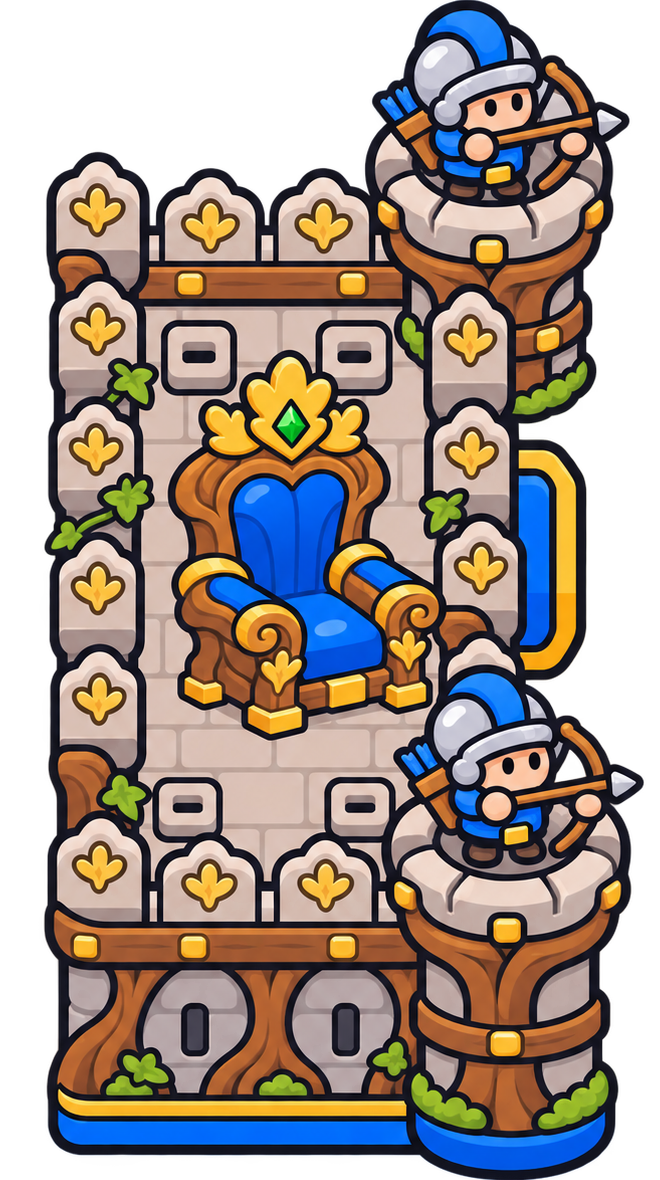
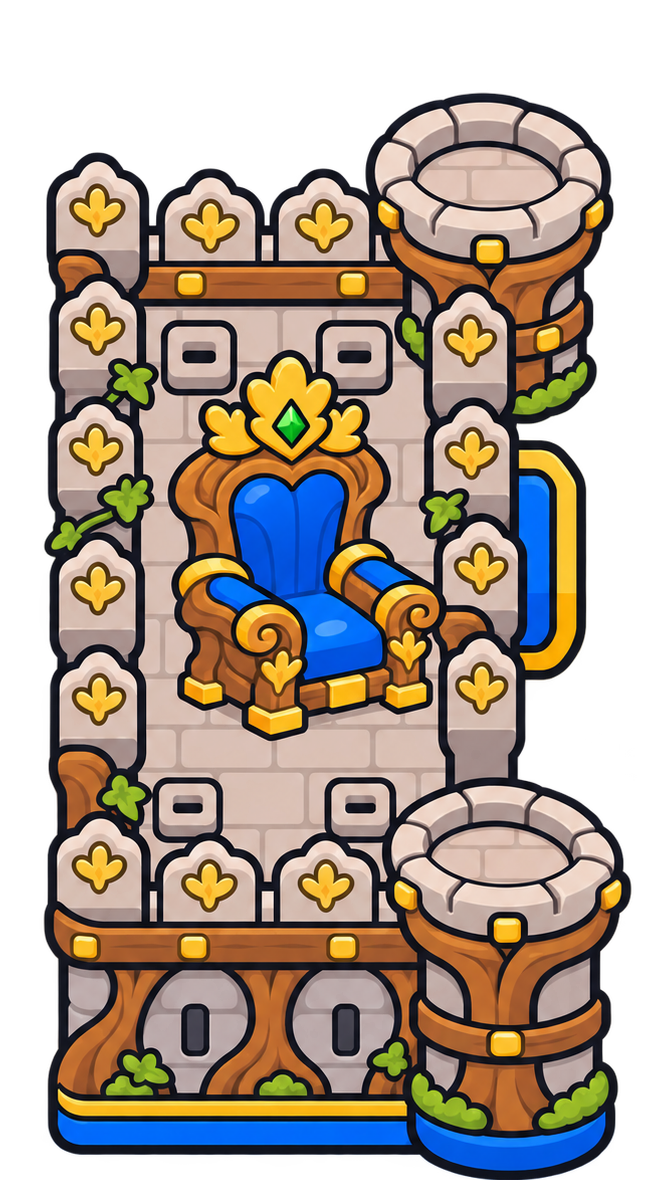
Castillos sin arqueros pintados y arqueros de torre animados; escaramuza igualada en el menú
Claude-Session: https://claude.ai/code/session_01JNP7QCwsBCjLSMGndzwo2W

diff --git a/docs/index.html b/docs/index.html
@@ -4770,13 +4770,12 @@ function castleVariants(sc) {
 }
 /* ---- arqueros de las torres: van encima del dibujo del castillo (en el mismo sitio que los pintados) y se animan al disparar:
    el arco apunta al objetivo y retrocede con el tiro. Medidas en píxeles del dibujo del castillo ---- */
-const ARQ = { on: false, body: [463, 105.5, 201], bow: [562, 124.5, 115], dy: 660, dx: 5, t: 0.45 };   // on: cuando los castillos vengan sin los arqueros pintados
+const ARQ = { body: [[465, 105], [480, 765]], bh: 200, hand: [92, 39], bowH: 150, grip: [0.68, 0.5], t: 0.45 };   // en píxeles del dibujo del castillo
 let torreArq = {};
 function torreArqueros(sc) {
-  if (!ARQ.on) return;
   for (const team of ['blue', 'purple']) torreArq[team] = [0, 1].map(() => ({
-    bow: sc.add.image(0, 0, 'torre_arco').setOrigin(0.674, 0.517).setDepth(-1497),
     body: sc.add.image(0, 0, 'torre_cuerpo').setDepth(-1498),
+    bow: sc.add.image(0, 0, 'torre_arco').setOrigin(ARQ.grip[0], ARQ.grip[1]).setDepth(-1497),
     hand: sc.add.image(0, 0, 'torre_mano').setDepth(-1496) }));
 }
 function torreArqTick(dt) {
@@ -4784,20 +4783,19 @@ function torreArqTick(dt) {
   for (const team of ['blue', 'purple']) (torreArq[team] || []).forEach((A, i) => {
     const s = B && B[team], c = castles[team], vis = !!(c && c.alive);
     for (const k of ['body', 'bow', 'hand']) A[k].setVisible(vis); if (!vis) return;
-    const col = TEAM_COLOR[team], fl = team === 'purple' ? -1 : 1;
+    const col = TEAM_COLOR[team], fl = team === 'purple' ? -1 : 1, ky = CAS.ky / CAS.k;
     const wx = cx => { const x = CAS.x0 + cx * CAS.k; return team === 'blue' ? x : W - x; }, wy = cy => CAS.y0 + (cy - CAS.oy) * CAS.ky;
-    const oy = i * ARQ.dy, ox = i * ARQ.dx, T = s && s.arqT ? s.arqT[i] || 0 : 0;
-    if (s && s.arqT && T > 0) s.arqT[i] = Math.max(0, T - dt);
-    const p = T > 0 ? 1 - T / ARQ.t : 1, kick = T > 0 ? Math.sin(Math.min(1, p * 3) * Math.PI) * (1 - p) : 0;
-    const aim = (s && s.arqA ? s.arqA[i] || 0 : 0) * (T > 0 ? Math.min(1, (1 - p) * 3) : 0), bob = Math.sin(now * 2.6 + i * 1.7 + (team === 'blue' ? 0 : 1)) * 1.2;
-    const kb = CAS.k * ARQ.body[2] / 300, kw = CAS.k * ARQ.bow[2] / 240;
-    A.body.setTexture(colorTex('torre_cuerpo', col)).setPosition(wx(ARQ.body[0] + ox), wy(ARQ.body[1] + oy + bob)).setScale(fl * kb, kb * CAS.ky / CAS.k);
-    const bx = wx(ARQ.bow[0] + ox - 10 * kick), by = wy(ARQ.bow[1] + oy + bob * 0.6);
-    A.bow.setTexture(colorTex('torre_arco', col)).setPosition(bx, by).setScale(fl * kw, kw * CAS.ky / CAS.k).setRotation(fl * aim);
-    A.hand.setTexture(colorTex('torre_mano', col)).setPosition(bx, by).setScale(fl * kb, kb * CAS.ky / CAS.k);
+    const T = s && s.arqT ? s.arqT[i] || 0 : 0; if (T > 0) s.arqT[i] = Math.max(0, T - dt);
+    const p = T > 0 ? 1 - T / ARQ.t : 1, draw = T > 0 ? (p < 0.35 ? p / 0.35 : 0) : 0, kick = T > 0 && p >= 0.35 ? Math.sin(Math.min(1, (p - 0.35) / 0.25) * Math.PI) : 0;
+    const aim = (s && s.arqA ? s.arqA[i] || 0 : 0) * (T > 0 ? 1 - Math.max(0, (p - 0.6) / 0.4) : 0), bob = Math.sin(now * 2.6 + i * 1.7 + (team === 'blue' ? 0 : 1)) * 2;
+    const [bx, by] = ARQ.body[i], kb = CAS.k * ARQ.bh / 300, kw = CAS.k * ARQ.bowH / 240;
+    A.body.setTexture(colorTex('torre_cuerpo', col)).setPosition(wx(bx - 4 * kick), wy(by + bob)).setScale(fl * kb, kb * ky).setRotation(-fl * 0.05 * kick);
+    const hx = wx(bx + ARQ.hand[0] - 6 * draw - 8 * kick), hy = wy(by + ARQ.hand[1] + bob);
+    A.bow.setTexture(colorTex('torre_arco', col)).setPosition(hx, hy).setScale(fl * kw, kw * ky).setRotation(fl * aim);
+    A.hand.setTexture(colorTex('torre_mano', col)).setPosition(hx, hy).setScale(fl * kb, kb * ky);
   });
 }
-const archPos = (team, i) => { const [ax, ay] = CAS.arch[i], x = CAS.x0 + ax * CAS.k; return [team === 'blue' ? x : W - x, CAS.y0 + (ay - CAS.oy) * CAS.ky]; };
+const archPos = (team, i) => { const [ax, ay] = [ARQ.body[i][0] + ARQ.hand[0] + 40, ARQ.body[i][1] + ARQ.hand[1]], x = CAS.x0 + ax * CAS.k; return [team === 'blue' ? x : W - x, CAS.y0 + (ay - CAS.oy) * CAS.ky]; };
 let cam, db = null;
 (async () => { try { db = await (window.claude?.use?.('db') ?? null); } catch (e) { db = null; } })();
 const shuffle = a => { for (let i = a.length - 1; i > 0; i--) { const j = Math.floor(Math.random() * (i + 1)); [a[i], a[j]] = [a[j], a[i]]; } return a; };
@@ -5896,7 +5894,7 @@ function collectExp(el) {
   perfil.gold += p.oro; addXP(p.xp); perfil.exp = Date.now(); dia().cobros++; savePerfil(); coinFly(el, p.oro);
   toast('Botín de la expedición: ' + fmt(p.oro) + ' de oro y ' + p.xp + ' de experiencia.'); paintHub();
 }
-// en el menú, las unidades de tu mazo avanzan por el camino y despachan de un golpe a los enemigos que salen al paso
+// en el menú, una escaramuza igualada: tus unidades (de tu mazo) contra otras tantas del rival, con su vida normal
 const IDLE = { tb: 0, tp: 0 };
 startDemo = function () { resetBattle({ demo: true, idle: true, deck: playerDeck(), hero: playerHero(), heroP: null, colors: battleColors(null) }); IDLE.tb = 0; IDLE.tp = 1; };
 function idleStep(dt) {
@@ -5904,13 +5902,13 @@ function idleStep(dt) {
   const z = cam.zoom, cx = cam.scrollX + cam.width / 2, half = cam.width / (2 * z), L = cx - half, R = cx + half;
   IDLE.tb -= dt; IDLE.tp -= dt;
   const mine = units.filter(u => u.team === 'blue' && u.alive), foes = units.filter(u => u.team === 'purple' && u.alive);
-  if (IDLE.tb <= 0 && mine.length < 6) {
-    IDLE.tb = rand(1.3, 2.3); const d = B.blue.deck, u = new Unit(scene, d[Math.floor(Math.random() * d.length)], 'blue', L - 70);
-    u.hp = u.max = 1e6; u.bar.setVisible(false); units.push(u);
+  if (IDLE.tb <= 0 && mine.length < 4) {
+    IDLE.tb = rand(1.6, 2.6); const d = B.blue.deck, u = new Unit(scene, d[Math.floor(Math.random() * d.length)], 'blue', L - 70);
+    u.bar.setVisible(false); units.push(u);
   }
-  if (IDLE.tp <= 0 && foes.length < 5) {
-    IDLE.tp = rand(1.1, 2.1); const pool = ['legionario', 'arquera', 'tercio', 'lobo', 'valkiria'], u = new Unit(scene, pool[Math.floor(Math.random() * pool.length)], 'purple', R + 70);
-    u.hp = u.max = 1; u.bar.setVisible(false); units.push(u);
+  if (IDLE.tp <= 0 && foes.length < 4) {
+    IDLE.tp = rand(1.6, 2.6); const pool = B.blue.deck.length > 2 ? B.blue.deck : ['legionario', 'arquera', 'tercio', 'lobo', 'valkiria'], u = new Unit(scene, pool[Math.floor(Math.random() * pool.length)], 'purple', R + 70);
+    u.bar.setVisible(false); units.push(u);
   }
   fightLogic(dt);
   for (const u of units.slice()) if ((u.team === 'blue' && u.x > R + 160) || (u.team === 'purple' && u.x < L - 160)) {

diff --git a/prototipos/batalla/batalla.js b/prototipos/batalla/batalla.js
@@ -63,13 +63,12 @@ function castleVariants(sc) {
 }
 /* ---- arqueros de las torres: van encima del dibujo del castillo (en el mismo sitio que los pintados) y se animan al disparar:
    el arco apunta al objetivo y retrocede con el tiro. Medidas en píxeles del dibujo del castillo ---- */
-const ARQ = { on: false, body: [463, 105.5, 201], bow: [562, 124.5, 115], dy: 660, dx: 5, t: 0.45 };   // on: cuando los castillos vengan sin los arqueros pintados
+const ARQ = { body: [[465, 105], [480, 765]], bh: 200, hand: [92, 39], bowH: 150, grip: [0.68, 0.5], t: 0.45 };   // en píxeles del dibujo del castillo
 let torreArq = {};
 function torreArqueros(sc) {
-  if (!ARQ.on) return;
   for (const team of ['blue', 'purple']) torreArq[team] = [0, 1].map(() => ({
-    bow: sc.add.image(0, 0, 'torre_arco').setOrigin(0.674, 0.517).setDepth(-1497),
     body: sc.add.image(0, 0, 'torre_cuerpo').setDepth(-1498),
+    bow: sc.add.image(0, 0, 'torre_arco').setOrigin(ARQ.grip[0], ARQ.grip[1]).setDepth(-1497),
     hand: sc.add.image(0, 0, 'torre_mano').setDepth(-1496) }));
 }
 function torreArqTick(dt) {
@@ -77,20 +76,19 @@ function torreArqTick(dt) {
   for (const team of ['blue', 'purple']) (torreArq[team] || []).forEach((A, i) => {
     const s = B && B[team], c = castles[team], vis = !!(c && c.alive);
     for (const k of ['body', 'bow', 'hand']) A[k].setVisible(vis); if (!vis) return;
-    const col = TEAM_COLOR[team], fl = team === 'purple' ? -1 : 1;
+    const col = TEAM_COLOR[team], fl = team === 'purple' ? -1 : 1, ky = CAS.ky / CAS.k;
     const wx = cx => { const x = CAS.x0 + cx * CAS.k; return team === 'blue' ? x : W - x; }, wy = cy => CAS.y0 + (cy - CAS.oy) * CAS.ky;
-    const oy = i * ARQ.dy, ox = i * ARQ.dx, T = s && s.arqT ? s.arqT[i] || 0 : 0;
-    if (s && s.arqT && T > 0) s.arqT[i] = Math.max(0, T - dt);
-    const p = T > 0 ? 1 - T / ARQ.t : 1, kick = T > 0 ? Math.sin(Math.min(1, p * 3) * Math.PI) * (1 - p) : 0;
-    const aim = (s && s.arqA ? s.arqA[i] || 0 : 0) * (T > 0 ? Math.min(1, (1 - p) * 3) : 0), bob = Math.sin(now * 2.6 + i * 1.7 + (team === 'blue' ? 0 : 1)) * 1.2;
-    const kb = CAS.k * ARQ.body[2] / 300, kw = CAS.k * ARQ.bow[2] / 240;
-    A.body.setTexture(colorTex('torre_cuerpo', col)).setPosition(wx(ARQ.body[0] + ox), wy(ARQ.body[1] + oy + bob)).setScale(fl * kb, kb * CAS.ky / CAS.k);
-    const bx = wx(ARQ.bow[0] + ox - 10 * kick), by = wy(ARQ.bow[1] + oy + bob * 0.6);
-    A.bow.setTexture(colorTex('torre_arco', col)).setPosition(bx, by).setScale(fl * kw, kw * CAS.ky / CAS.k).setRotation(fl * aim);
-    A.hand.setTexture(colorTex('torre_mano', col)).setPosition(bx, by).setScale(fl * kb, kb * CAS.ky / CAS.k);
+    const T = s && s.arqT ? s.arqT[i] || 0 : 0; if (T > 0) s.arqT[i] = Math.max(0, T - dt);
+    const p = T > 0 ? 1 - T / ARQ.t : 1, draw = T > 0 ? (p < 0.35 ? p / 0.35 : 0) : 0, kick = T > 0 && p >= 0.35 ? Math.sin(Math.min(1, (p - 0.35) / 0.25) * Math.PI) : 0;
+    const aim = (s && s.arqA ? s.arqA[i] || 0 : 0) * (T > 0 ? 1 - Math.max(0, (p - 0.6) / 0.4) : 0), bob = Math.sin(now * 2.6 + i * 1.7 + (team === 'blue' ? 0 : 1)) * 2;
+    const [bx, by] = ARQ.body[i], kb = CAS.k * ARQ.bh / 300, kw = CAS.k * ARQ.bowH / 240;
+    A.body.setTexture(colorTex('torre_cuerpo', col)).setPosition(wx(bx - 4 * kick), wy(by + bob)).setScale(fl * kb, kb * ky).setRotation(-fl * 0.05 * kick);
+    const hx = wx(bx + ARQ.hand[0] - 6 * draw - 8 * kick), hy = wy(by + ARQ.hand[1] + bob);
+    A.bow.setTexture(colorTex('torre_arco', col)).setPosition(hx, hy).setScale(fl * kw, kw * ky).setRotation(fl * aim);
+    A.hand.setTexture(colorTex('torre_mano', col)).setPosition(hx, hy).setScale(fl * kb, kb * ky);
   });
 }
-const archPos = (team, i) => { const [ax, ay] = CAS.arch[i], x = CAS.x0 + ax * CAS.k; return [team === 'blue' ? x : W - x, CAS.y0 + (ay - CAS.oy) * CAS.ky]; };
+const archPos = (team, i) => { const [ax, ay] = [ARQ.body[i][0] + ARQ.hand[0] + 40, ARQ.body[i][1] + ARQ.hand[1]], x = CAS.x0 + ax * CAS.k; return [team === 'blue' ? x : W - x, CAS.y0 + (ay - CAS.oy) * CAS.ky]; };
 let cam, db = null;
 (async () => { try { db = await (window.claude?.use?.('db') ?? null); } catch (e) { db = null; } })();
 const shuffle = a => { for (let i = a.length - 1; i > 0; i--) { const j = Math.floor(Math.random() * (i + 1)); [a[i], a[j]] = [a[j], a[i]]; } return a; };

diff --git a/prototipos/batalla/hub.js b/prototipos/batalla/hub.js
@@ -61,7 +61,7 @@ function collectExp(el) {
   perfil.gold += p.oro; addXP(p.xp); perfil.exp = Date.now(); dia().cobros++; savePerfil(); coinFly(el, p.oro);
   toast('Botín de la expedición: ' + fmt(p.oro) + ' de oro y ' + p.xp + ' de experiencia.'); paintHub();
 }
-// en el menú, las unidades de tu mazo avanzan por el camino y despachan de un golpe a los enemigos que salen al paso
+// en el menú, una escaramuza igualada: tus unidades (de tu mazo) contra otras tantas del rival, con su vida normal
 const IDLE = { tb: 0, tp: 0 };
 startDemo = function () { resetBattle({ demo: true, idle: true, deck: playerDeck(), hero: playerHero(), heroP: null, colors: battleColors(null) }); IDLE.tb = 0; IDLE.tp = 1; };
 function idleStep(dt) {
@@ -69,13 +69,13 @@ function idleStep(dt) {
   const z = cam.zoom, cx = cam.scrollX + cam.width / 2, half = cam.width / (2 * z), L = cx - half, R = cx + half;
   IDLE.tb -= dt; IDLE.tp -= dt;
   const mine = units.filter(u => u.team === 'blue' && u.alive), foes = units.filter(u => u.team === 'purple' && u.alive);
-  if (IDLE.tb <= 0 && mine.length < 6) {
-    IDLE.tb = rand(1.3, 2.3); const d = B.blue.deck, u = new Unit(scene, d[Math.floor(Math.random() * d.length)], 'blue', L - 70);
-    u.hp = u.max = 1e6; u.bar.setVisible(false); units.push(u);
+  if (IDLE.tb <= 0 && mine.length < 4) {
+    IDLE.tb = rand(1.6, 2.6); const d = B.blue.deck, u = new Unit(scene, d[Math.floor(Math.random() * d.length)], 'blue', L - 70);
+    u.bar.setVisible(false); units.push(u);
   }
-  if (IDLE.tp <= 0 && foes.length < 5) {
-    IDLE.tp = rand(1.1, 2.1); const pool = ['legionario', 'arquera', 'tercio', 'lobo', 'valkiria'], u = new Unit(scene, pool[Math.floor(Math.random() * pool.length)], 'purple', R + 70);
-    u.hp = u.max = 1; u.bar.setVisible(false); units.push(u);
+  if (IDLE.tp <= 0 && foes.length < 4) {
+    IDLE.tp = rand(1.6, 2.6); const pool = B.blue.deck.length > 2 ? B.blue.deck : ['legionario', 'arquera', 'tercio', 'lobo', 'valkiria'], u = new Unit(scene, pool[Math.floor(Math.random() * pool.length)], 'purple', R + 70);
+    u.bar.setVisible(false); units.push(u);
   }
   fightLogic(dt);
   for (const u of units.slice()) if ((u.team === 'blue' && u.x > R + 160) || (u.team === 'purple' && u.x < L - 160)) {
